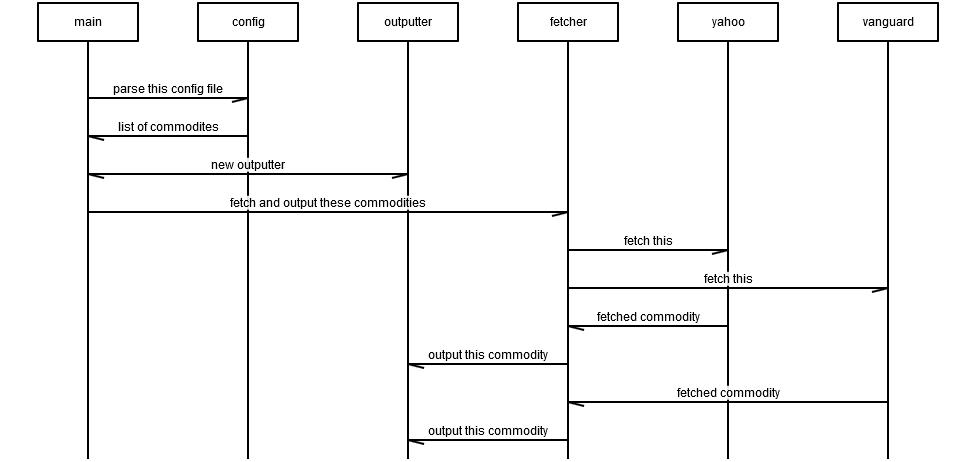
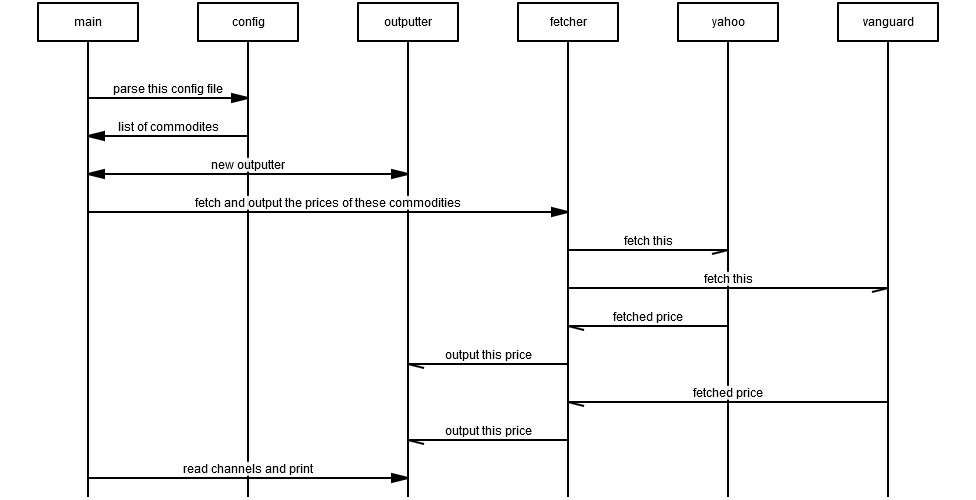
Problem: Both the Vanguard and Yahoo objects are duplicating formatting  #2

diff --git a/fetcher/vanguard.go b/fetcher/vanguard.go
@@ -7,6 +7,9 @@ import (
 	"net/http"
 	"strings"
 	"time"
+  
+   "github.com/Fepelus/getPrices/outputter"
+   "github.com/Fepelus/getPrices/entities"
 )
 
 type vanguard string
@@ -15,12 +18,12 @@ func NewVanguard(label string) Fetcher {
 	return vanguard(label)
 }
 
-func (this vanguard) Fetch(output chan string) {
+func (this vanguard) Fetch(output outputter.Outputter) {
 	markup := this.call(this.url())
 
-	formatted := this.format(markup)
+	price := this.makePrice(markup)
 
-	output <- formatted
+  output.Append(price)
 }
 
 func (this vanguard)url() string {
@@ -46,6 +49,31 @@ type Fund struct {
 
 type Quote struct {
 	Managedfund []Fund
+}
+
+func (this vanguard) makePrice(markup string) entities.Price {
+  for _, line := range strings.Split(markup, "\n") {
+		if strings.Index(line, "jsonv =") > -1 {
+			jsonv := []byte(line[12:])
+			var f Quote
+			_ = json.Unmarshal(jsonv, &f)
+			for _, fund := range f.Managedfund {
+				if fund.Benchmark == "S&P/ASX 300 Index" {
+					date, _ := time.Parse(
+						"01/02/2006",
+						fund.Unitpricedata.Effectivelatestdatetime,
+					)
+               return entities.NewPrice(
+                 date,
+                 time.Date(2009, time.November, 10, 17, 0, 0, 0, time.UTC),
+                 string(this),
+                 fund.Unitpricedata.Pricevaluelatestsell,
+               )
+				}
+			}
+		}
+   }
+	return entities.Price{}
 }
 
 func (this vanguard) format(markup string) string {

diff --git a/fetcher/yahoo.go b/fetcher/yahoo.go
@@ -6,6 +6,9 @@ import (
 	"net/http"
 	"strings"
 	"time"
+  
+   "github.com/Fepelus/getPrices/outputter"
+   "github.com/Fepelus/getPrices/entities"
 )
 
 type yahoo string
@@ -14,17 +17,16 @@ func NewYahoo(label string) Fetcher {
 	return yahoo(label)
 }
 
-func (this yahoo) Fetch(output chan string) {
+func (this yahoo) Fetch(output outputter.Outputter) {
 	url := this.url()
 	// http://finance.yahoo.com/d/quotes.csv?s=RKN.AX&f=snd1t1l1
 
 	csv := this.call(url)
 	// "RKN.AX","RECKON FPO","8/6/2015","12:19pm",2.03
 
-	formatted := this.format(csv)
-	// P 2015/08/06 12:19:00 RKN $2.03
+	price := this.makePrice(csv)
 
-	output <- formatted
+   output.Append(price)
 }
 
 func (this yahoo) url() string {
@@ -42,6 +44,17 @@ func (this yahoo) call(url string) string {
 		fmt.Print(err)
 	}
 	return string(body)
+}
+
+func (this yahoo) makePrice(csv string) entities.Price {
+	split := strings.Split(csv, ",")
+	date, _ := time.Parse("\"02/1/2006\"", split[2])
+	clock, _ := time.Parse("\"15:04pm\"", split[3])
+	symsplit := strings.Split(split[0], "\"")
+	qtsplit := strings.Split(symsplit[1], ".")
+	price := strings.TrimSpace(split[4])
+	commodity := qtsplit[0]
+   return entities.NewPrice(date, clock, commodity, price)
 }
 
 func (this yahoo) format(csv string) string {

diff --git a/outputter/ledgerOutput.go b/outputter/ledgerOutput.go
@@ -1,0 +1,37 @@
+package outputter
+
+import (
+  "fmt"
+  "os"
+  
+  "github.com/Fepelus/getPrices/entities"
+)
+
+type ledgerOutputter struct {
+  channel chan entities.Price
+  count int
+}
+
+func NewLedgerOutputter(count int) Outputter {
+  return ledgerOutputter{
+    channel: make(chan entities.Price),
+    count: count,
+  }
+}
+
+func (this ledgerOutputter) Append(input entities.Price) {
+   this.channel <- input 
+}
+
+func (this ledgerOutputter) Output() {
+  for i := 0; i < this.count; i++ {
+    this.formatPriceForLedger(<-this.channel)
+  }
+}
+
+func (this ledgerOutputter) formatPriceForLedger(input entities.Price) {
+	dtfmt := input.Date.Format("2006/02/01")
+	clfmt := input.Clock.Format("15:04")
+	fmt.Fprintf(os.Stdout, "P %s %s %s $%s\n", dtfmt, clfmt, input.Ticker, input.Price)
+}
+

diff --git a/config/parser.go b/config/parser.go
@@ -29,12 +29,12 @@ func getConfigFromFile() string {
 		filename = fmt.Sprintf("%s/.portfoliorc", home)
 	}
    if _, err := os.Stat(filename); os.IsNotExist(err) {
-      fmt.Printf("Could find no config file at %s\n", filename)
+      fmt.Fprintf(os.Stderr, "Could find no config file at %s\n", filename)
       os.Exit(1)
    }
 	bytes, filereaderr := ioutil.ReadFile(filename)
 	if filereaderr != nil {
-		fmt.Printf("Error reading %s: %s\n", filename, filereaderr)
+		fmt.Fprintf(os.Stderr, "Error reading %s: %s\n", filename, filereaderr)
       os.Exit(1)
 	}
 	return string(bytes)

diff --git a/getPrices.go b/getPrices.go
@@ -1,20 +1,16 @@
 package main
 
 import (
-	"fmt"
-	"os"
-
 	"github.com/Fepelus/getPrices/config"
+   "github.com/Fepelus/getPrices/outputter"
 )
 
 func main() {
 	commodities := config.Parse()
 	fetchers := config.MakeFetchers(commodities)
-	receiver := make(chan string)
-	for _, fetcher := range fetchers {
-		go fetcher.Fetch(receiver)
+   outputter := outputter.NewLedgerOutputter(len(fetchers))
+   for _, fetcher := range fetchers {
+		go fetcher.Fetch(outputter)
 	}
-	for _ = range fetchers {
-		fmt.Fprintln(os.Stdout, <-receiver)
-	}
+   outputter.Output()
 }

diff --git a/entities/price.go b/entities/price.go
@@ -1,0 +1,15 @@
+package entities
+
+import "time"
+
+type Price struct {
+	Date time.Time
+   Clock time.Time
+	Ticker string
+   Price string    // stored here in dollars but without a dollar sign
+}
+
+func NewPrice(indate time.Time, inclock time.Time, ticker string, price string) Price {
+	return Price{indate, inclock, ticker, price}
+}
+

diff --git a/entities/commodity.go b/entities/commodity.go
@@ -9,6 +9,3 @@ func NewCommodity(broker string, ticker string) Commodity {
 	return Commodity{broker, ticker}
 }
 
-type Fetcher interface {
-	Fetch(chan string)
-}

diff --git a/fetcher/fetcher.go b/fetcher/fetcher.go
@@ -1,6 +1,7 @@
 package fetcher
 
+import "github.com/Fepelus/getPrices/outputter"
 
 type Fetcher interface {
-	Fetch(chan string)
+	Fetch(outputter.Outputter)
 }

diff --git a/outputter/outputter.go b/outputter/outputter.go
@@ -1,0 +1,9 @@
+package outputter
+
+import "github.com/Fepelus/getPrices/entities"
+
+type Outputter interface {
+  Append(entities.Price)
+  Output()
+}
+
